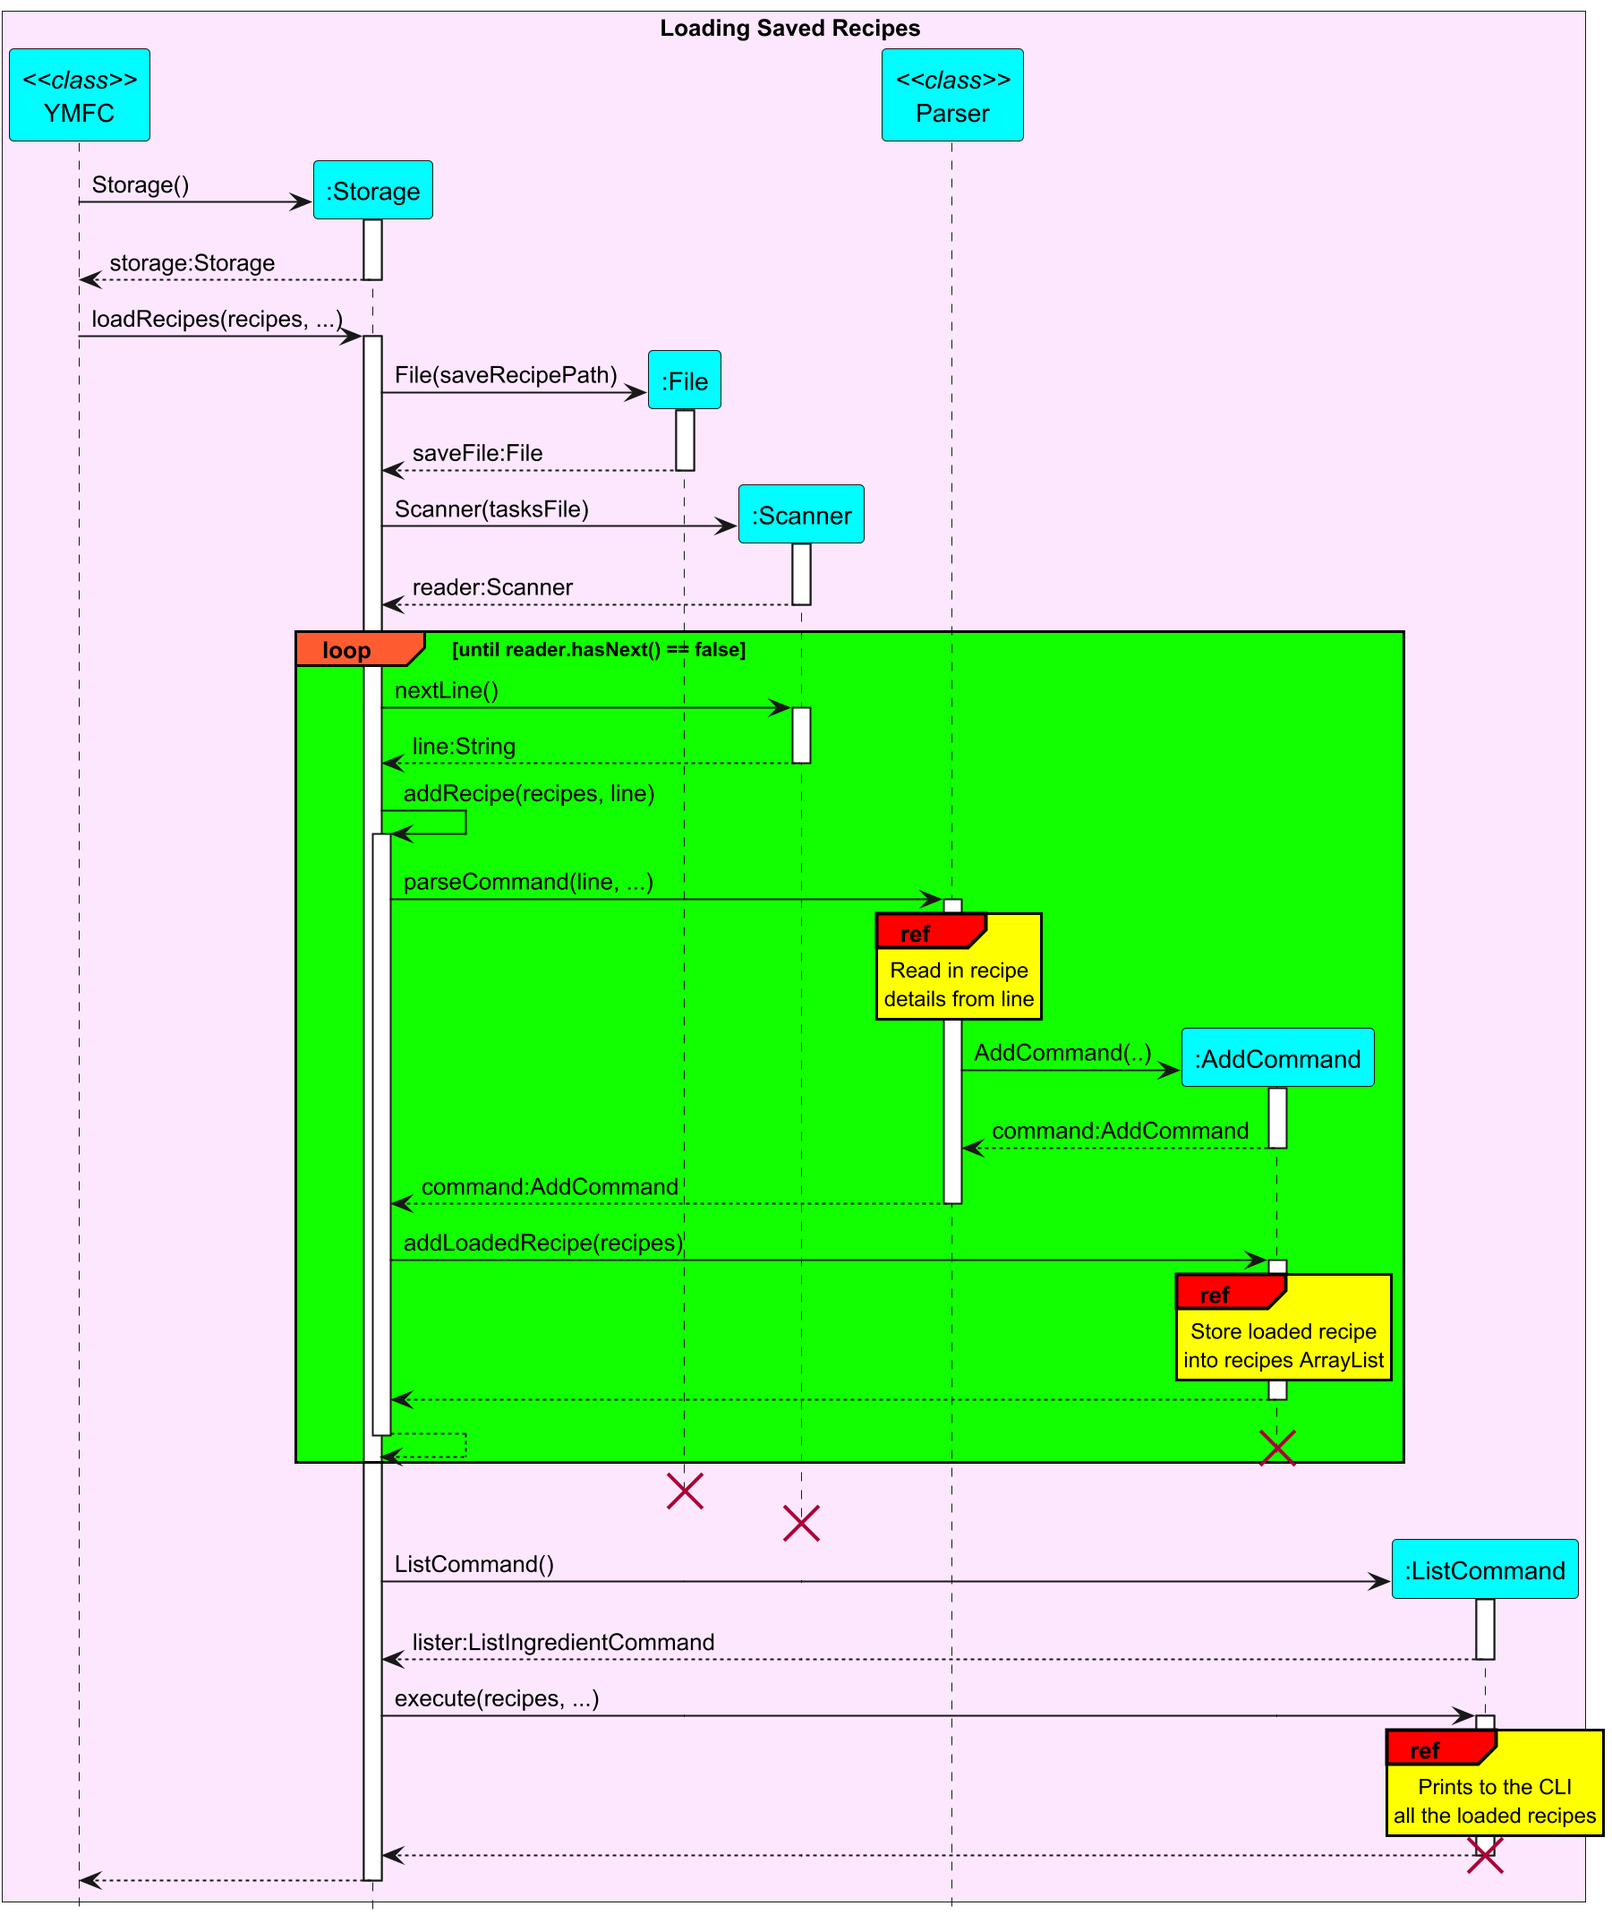
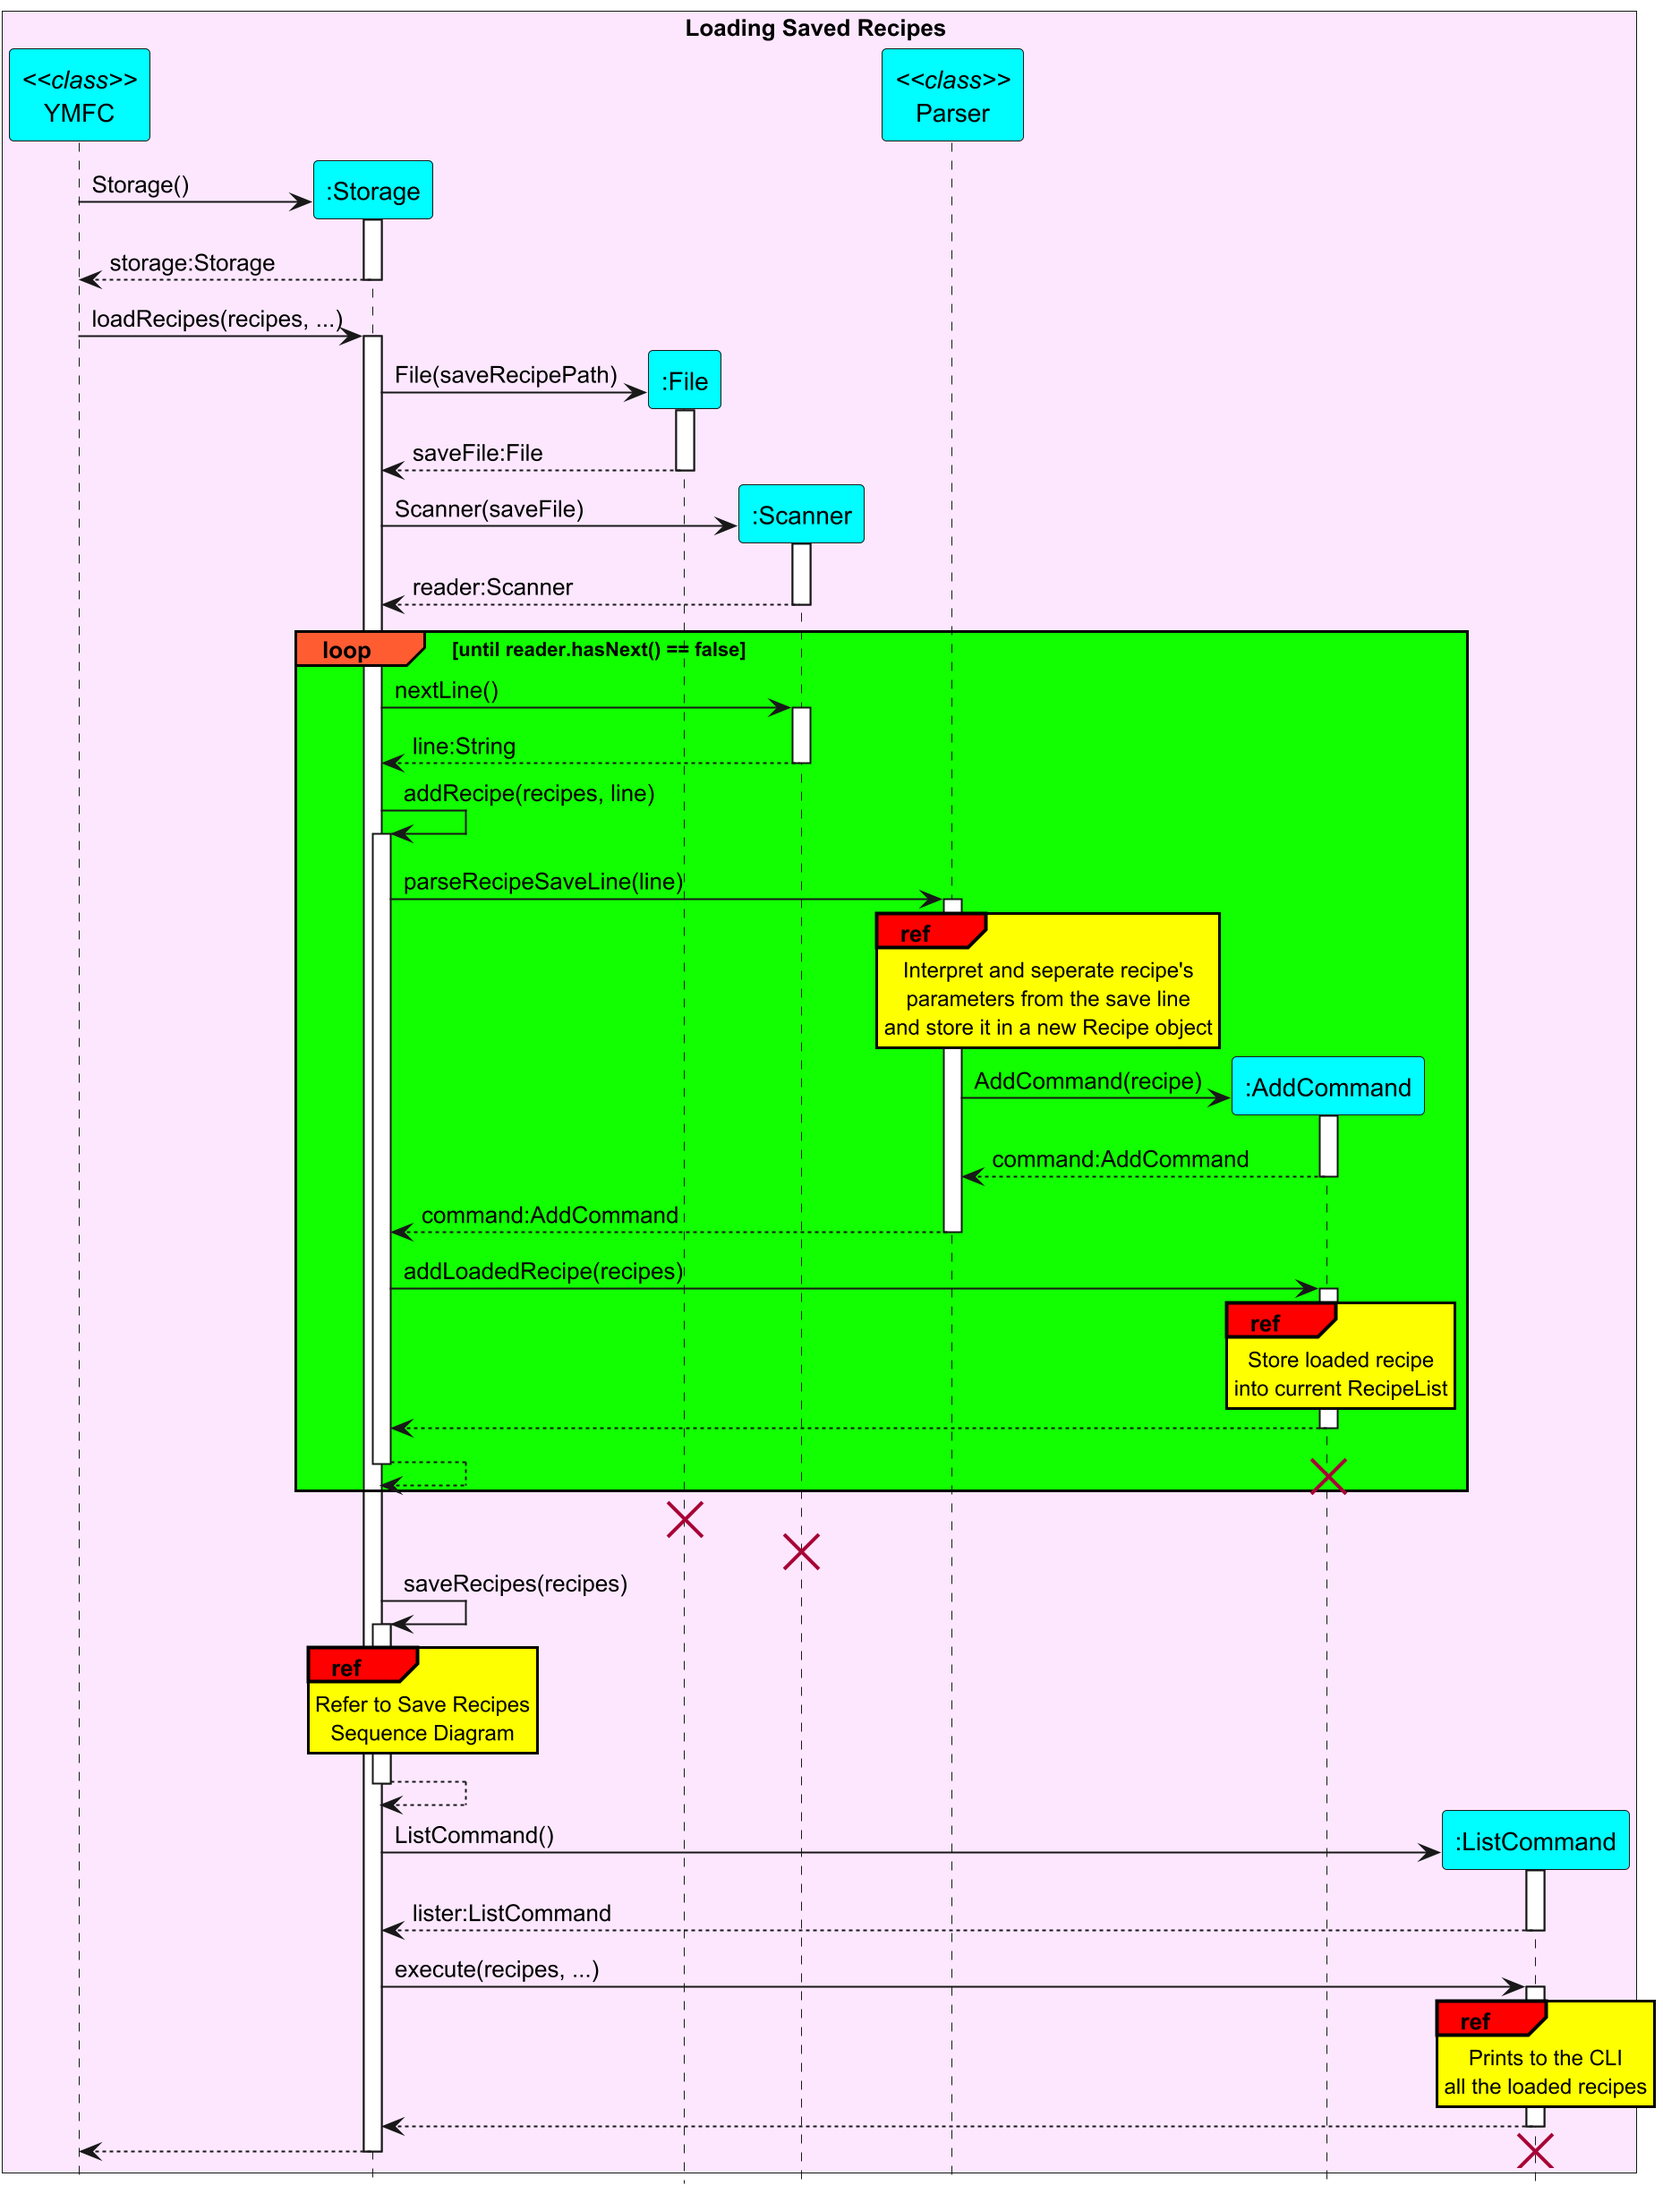
Updates storage related documentations

diff --git a/docs/UserGuide.md b/docs/UserGuide.md
@@ -5,7 +5,8 @@
 - [Introduction](#introduction)
 - [Quick Start](#quick-start)
 - [Features](#features)
-  - [Auto-Save Databases](#auto-save-databases)
+  - [Recipes and Ingredients](#recipes-and-ingredients)
+  - [Save-Load System](#save-load-system)
   - [Input Formatting Guide](#input-formatting-guide)
   - [Getting Help](#getting-helphelp)
   - [Exiting YMFC](#exiting-ymfc-bye)
@@ -44,13 +45,34 @@ It can also keep track of what ingredients you have on hand, and recommend recip
 
 ## Features
 
-### Auto-Save Databases
+### Recipes and Ingredients
+* There are 2 categories of data that YMFC will help you store: Recipes and Ingredients
+* The **Recipes** are stored in the **cookbook** database while **Ingredients** are stored in the **inventory** database
+
+
+* **Recipes** are what you would expect in a **cookbook** and contain details such as ingredients needed, steps to take,
+cuisine of the meal and time taken to prepare the meal
+  * They are essentially descriptions of a meal and steps on how to prepare those meals
+
+
+* **Ingredients** in the **inventory** refer to ingredients that you as a cook have on hand at the moment
+  * i.e. The inventory database of ingredients contains items that the user currently has available to cook with
+* NOTE: These ingredients are **COMPLETELY DISTINCT** from the ingredients contained within recipes!!!
+  * As such, when creating and adding recipes to the cookbook, the ingredients mentioned within them **WILL NOT** 
+be automatically added to the ingredients inventory! 
+  * Because the ingredients within recipes and ingredients within the inventory refer to 2 completely different things!
+  * The only way to add ingredients to your inventory is through the `new` command, which will be described later
+
+
+### Save-Load System
 * YMFC keeps 2 separate databases, stored locally in 2 text files.
   * The cookbook database stores your Recipes, located at `[JAR File Location]/data/recipes.txt`.
   * The inventory database stores your available Ingredients, located at `[JAR File Location]/data/ingredients.txt`.
-* YMFC loads your recipes and ingredients from these 2 databases when launched
-* If the databases don't yet exist, YMFC will create them automatically
-* Your recipes and ingredients are saved automatically every time they are added, edited or removed
+* YMFC automatically loads your recipes and ingredients from these 2 databases when launched
+* If the databases don't yet exist, YMFC will create them automatically upon launch of the app
+* Your recipes and ingredients are saved automatically every time they are added, edited, removed or modified in any way
+  * i.e. There is no manual way nor need to initiate this save process, as it is taken care of by YMFC itself.
+
 
 ### Input Formatting Guide
 * If the command format is in uppercase letters, then it means it is to be substituted for the user's desired phrase

diff --git a/docs/DeveloperGuide.md b/docs/DeveloperGuide.md
@@ -281,8 +281,10 @@ is requested. In the example of the sort command, the getXYZCommand(args) method
 
 ### Storage Class
 The Storage class 
-- saves the User's added recipes to a .txt file
-  - This is done every time the recipes are modified in any way (such as added, deleted, sorted or edited)
+1. Saves the User's added recipes to a .txt file
+  - Empty save files are created immediately once YMFC is launched for the first time
+    - New empty save files are also created upon launch if the previous ones were deleted by the user
+  - Saving recipes is done every time the recipes are modified in any way (such as added, deleted, sorted or edited)
   - The following Sequence diagram shows how the saveRecipes() method in the Storage class
     saves all the created recipes into the .txt file
 
@@ -290,9 +292,14 @@ The Storage class
 
 <div style="page-break-after: always;"></div>
 
-- reads the .txt save file to load in past saved recipes when app is launched
+2. reads the .txt save files to load in past saved recipes immediately when app is launched
+  - If the user had modified the save files to contain irregular lines of text, then they are simply ignored.
+    - A message is printed to the CLI to alert user of the irregular lines within the save file
+    - The irregular lines are immediately deleted from the save files
   - The following Sequence diagram shows how the loadRecipes() method in the Storage class
     loads in past saved recipes from the .txt file when the app is first launched
+    - The sequence diagram does not show how irregular lines within save files are handled, 
+and only describes how regular, properly formatted save files are loaded in
 
 ![loadRecipes.png](img/SequenceDiagrams/LoadRecipesSequenceDiagram.png)
 
